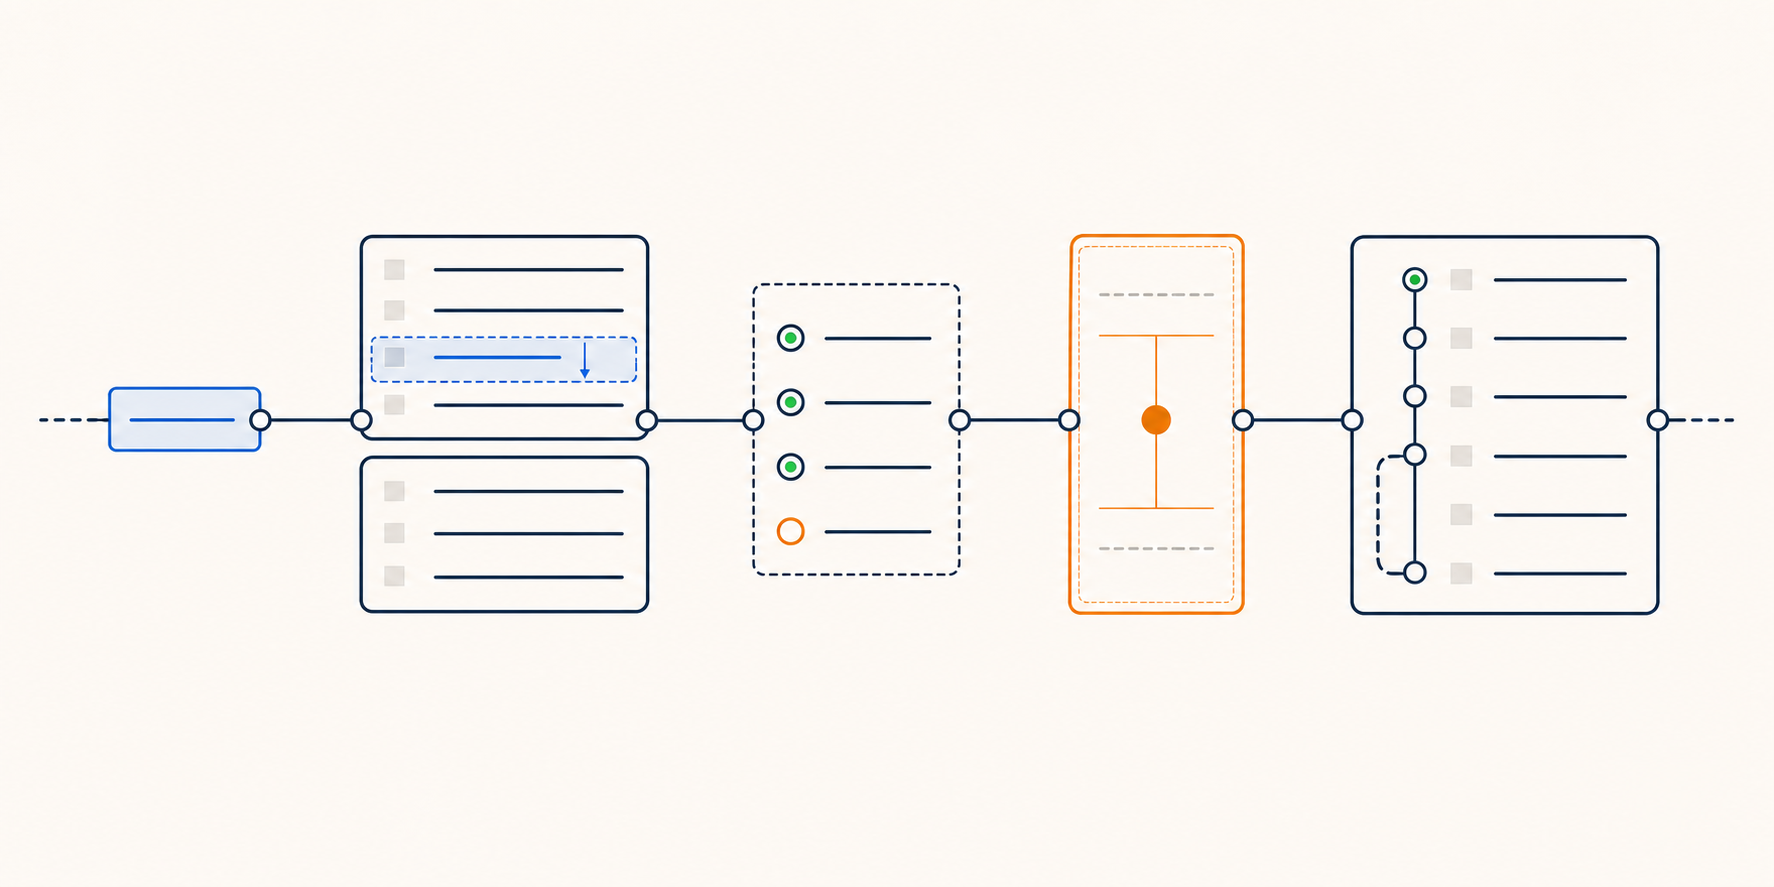
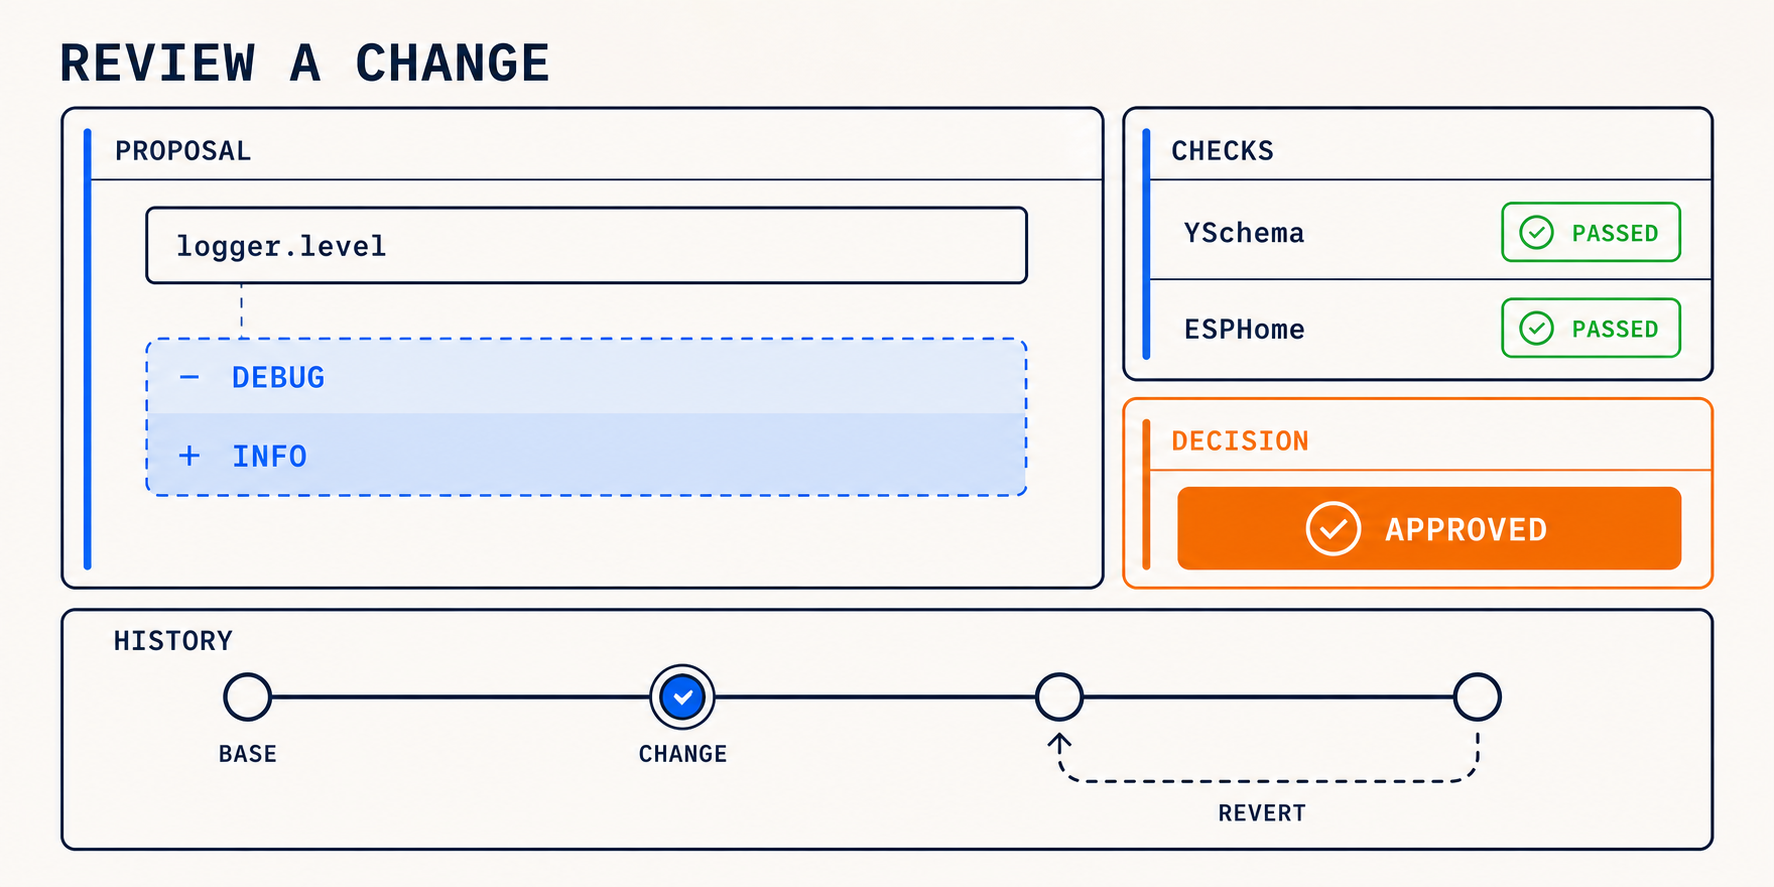
docs: make transition visuals concrete

diff --git a/README.md b/README.md
@@ -27,8 +27,6 @@ what happened before committing it and understand it later.
 
 <p align="center">
   <img src=".github/assets/t3x-state-transition.png" alt="A transition connecting one version of structured state to the next" width="960" />
-  <br />
-  <sub>State → transition → state.</sub>
 </p>
 
 ## Features
@@ -47,8 +45,6 @@ what happened before committing it and understand it later.
 
 <p align="center">
   <img src=".github/assets/t3x-review-process.png" alt="A proposal moving through comparison, checks, decision, and durable history" width="960" />
-  <br />
-  <sub>Proposal → checks → decision → history.</sub>
 </p>
 
 ## Quickstart
